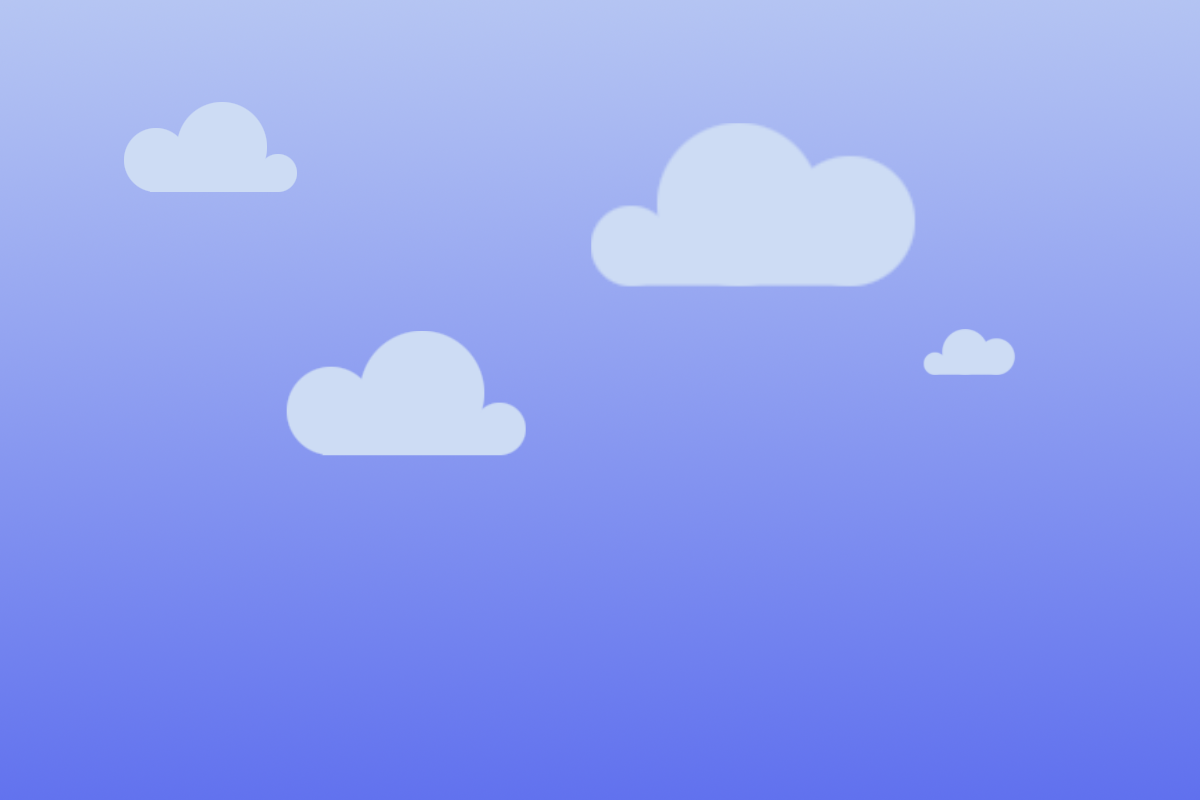
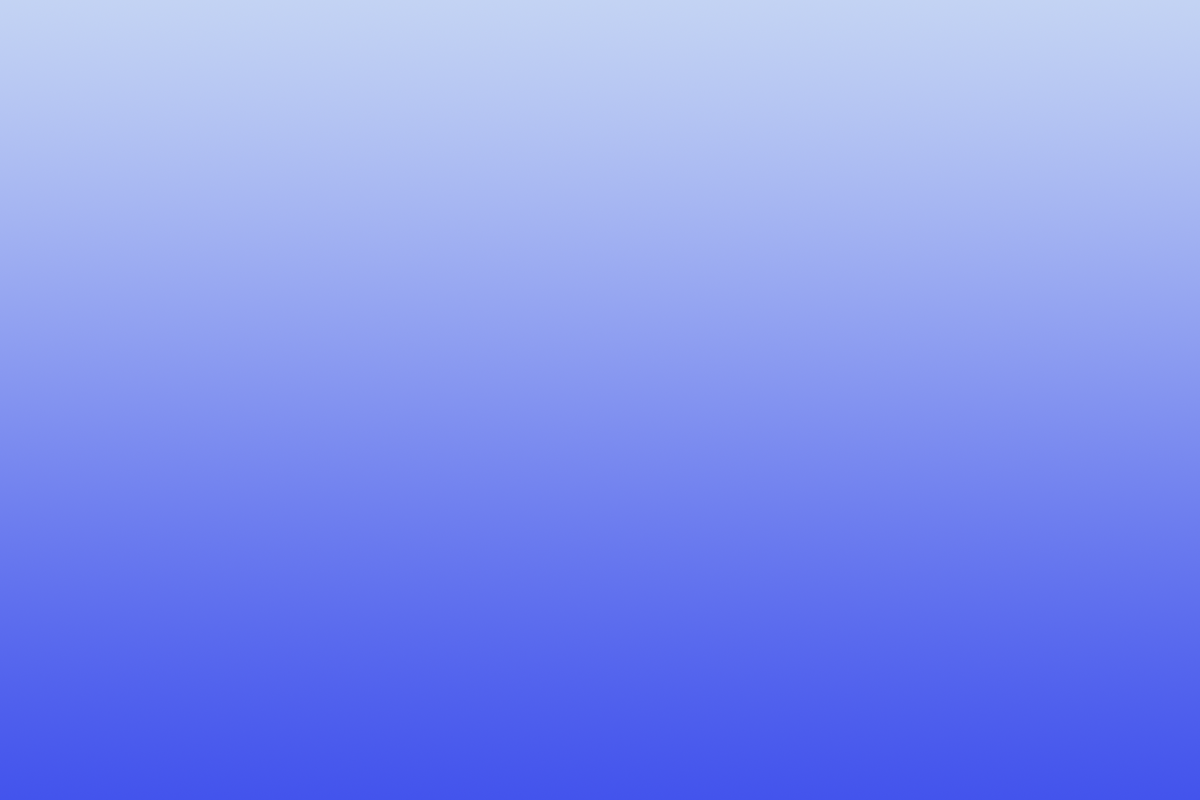
Added new background textures, refactored atlas & region

diff --git a/CleanWaterGame/src/csci307/theGivingChild/CleanWaterGame/ActOneActivity.java b/CleanWaterGame/src/csci307/theGivingChild/CleanWaterGame/ActOneActivity.java
@@ -55,11 +55,14 @@ public class ActOneActivity extends SimpleBaseGameActivity implements IOnSceneTo
 	private static final Object TAG_ENTITY_ATTRIBUTE_TYPE_VALUE_OBSTACLE1 = "obstacle1";
 	private static final Object TAG_ENTITY_ATTRIBUTE_TYPE_VALUE_GROUND1 = "ground1";
 	
-	private BitmapTextureAtlas playerTextureAtlas;
-	private TiledTextureRegion playerTextureRegion;
+	private BitmapTextureAtlas spriteAtlas;
+	private TiledTextureRegion nyanRegion;
 	
-	private BitmapTextureAtlas backgroundTextureAtlas;
-	private ITextureRegion backgroundTextureRegion;
+	private BitmapTextureAtlas bgAtlas;
+	private ITextureRegion backGroundRegion;
+	private ITextureRegion midGroundRegion;
+	private ITextureRegion frontGroundRegion;
+	
 	
 	private AnimatedSprite player, background;
 	
@@ -77,19 +80,25 @@ public class ActOneActivity extends SimpleBaseGameActivity implements IOnSceneTo
 	@Override
 	public EngineOptions onCreateEngineOptions() {
 		camera = new BoundCamera(0, 0, CAMERA_WIDTH, CAMERA_HEIGHT);
-		return new EngineOptions(true, ScreenOrientation.LANDSCAPE_FIXED, new FillResolutionPolicy(), camera);
+		EngineOptions engineOptions;
+		engineOptions = new EngineOptions(true, ScreenOrientation.LANDSCAPE_FIXED, new FillResolutionPolicy(), camera);
+		engineOptions.getRenderOptions().setDithering(true);
+		return engineOptions;
 	}
 
 	@Override
 	protected void onCreateResources() {
 		BitmapTextureAtlasTextureRegionFactory.setAssetBasePath("gfx/");
-		playerTextureAtlas = new BitmapTextureAtlas(this.getTextureManager(), 1024, 128, TextureOptions.BILINEAR);
-		playerTextureRegion = BitmapTextureAtlasTextureRegionFactory.createTiledFromAsset(playerTextureAtlas, this, "nyan_cat_sprite.png", 0, 0, 6, 1);
-		playerTextureAtlas.load();
+		spriteAtlas = new BitmapTextureAtlas(this.getTextureManager(), 1024, 128, TextureOptions.BILINEAR);
+		nyanRegion = BitmapTextureAtlasTextureRegionFactory.createTiledFromAsset(spriteAtlas, this, "nyan_cat_sprite.png", 0, 0, 6, 1);
+		spriteAtlas.load();
 		
-		backgroundTextureAtlas = new BitmapTextureAtlas(this.getTextureManager(), 2048, 1024, TextureOptions.BILINEAR);
-		backgroundTextureRegion = BitmapTextureAtlasTextureRegionFactory.createFromAsset(backgroundTextureAtlas, this, "background.png", 0, 0);
-		backgroundTextureAtlas.load();		
+		bgAtlas = new BitmapTextureAtlas(this.getTextureManager(), 2048, 2048, TextureOptions.BILINEAR);
+		backGroundRegion = BitmapTextureAtlasTextureRegionFactory.createFromAsset(bgAtlas, this, "background.png", 0, 0);
+		midGroundRegion = BitmapTextureAtlasTextureRegionFactory.createFromAsset(bgAtlas, this, "clouds.png", 0, 800);
+		frontGroundRegion = BitmapTextureAtlasTextureRegionFactory.createFromAsset(bgAtlas, this, "ground.png", 0, 1179);
+		
+		bgAtlas.load();	
 	}
 
 	@Override
@@ -110,14 +119,16 @@ public class ActOneActivity extends SimpleBaseGameActivity implements IOnSceneTo
 		scene.registerUpdateHandler(physicsWorld);
 		
 		AutoParallaxBackground autoParallaxBackground = new AutoParallaxBackground(0, 0, 0, 5);
-		autoParallaxBackground.attachParallaxEntity(new ParallaxEntity(-50.0f, new Sprite(0, 400, backgroundTextureRegion, this.getVertexBufferObjectManager())));
+		autoParallaxBackground.attachParallaxEntity(new ParallaxEntity(0.0f, new Sprite(.5f*CAMERA_WIDTH , .5f*CAMERA_HEIGHT, this.backGroundRegion, this.getVertexBufferObjectManager())));
+		autoParallaxBackground.attachParallaxEntity(new ParallaxEntity(-20.0f, new Sprite(.5f*CAMERA_WIDTH, .5f*CAMERA_HEIGHT+80, this.midGroundRegion, this.getVertexBufferObjectManager())));
+		autoParallaxBackground.attachParallaxEntity(new ParallaxEntity(-100.0f, new Sprite(.5f*CAMERA_WIDTH, .5f*this.frontGroundRegion.getHeight(), this.frontGroundRegion, this.getVertexBufferObjectManager())));
 		scene.setBackground(autoParallaxBackground);
 //		scene.setBackground(new Background(Color.BLUE));
 		
 		final float playerX = 20;
 		final float playerY = 20;
 		
-		this.player = new AnimatedSprite(playerX, playerY, playerTextureRegion, this.getVertexBufferObjectManager());
+		this.player = new AnimatedSprite(playerX, playerY, nyanRegion, this.getVertexBufferObjectManager());
 		this.player.animate(100);
 		camera.setChaseEntity(player);
 		this.playerBody = PhysicsFactory.createBoxBody(physicsWorld, player, BodyType.DynamicBody, PLAYER_FIX);
